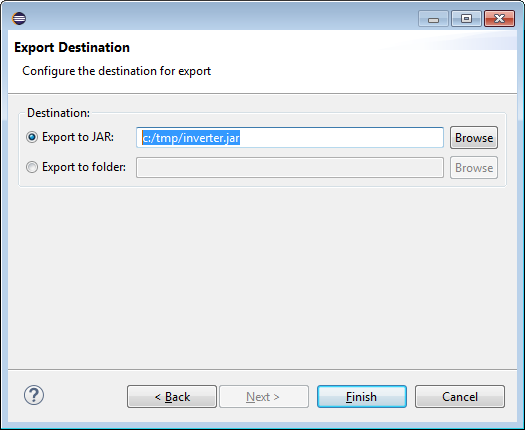
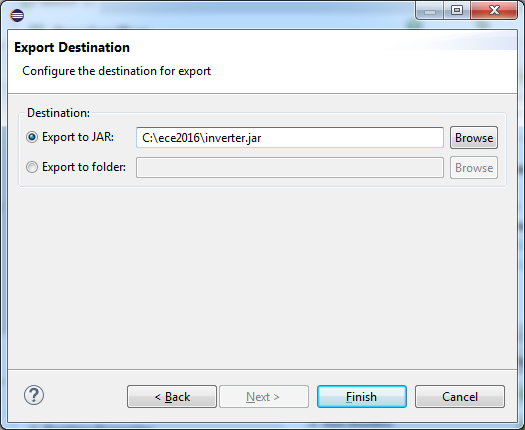
review Dirk and fixes bndtools

Changed region(s): [[0.0, 0.0, 1.0, 1.0], [0.2438, 0.3023, 0.5181, 0.3628]]

diff --git a/slides/index.html b/slides/index.html
@@ -87,6 +87,7 @@
         <p>copy the following snippet and paste it into src folder</p>
         <pre><code class="hljs" data-trim contenteditable>
 package examples.service.api;
+
 public interface StringModifier {
 	String modify(String input);
 }
@@ -110,9 +111,7 @@ public interface StringModifier {
         </p>
         <img src="images/pde/07_ServiceAPI-manifest.png" height="360px" />
     </section>
-</section>
-    
-<section id="exec1-pde-impl">
+
     <section data-markdown>
         #### Excercise 1 - PDE - Simple Service
         
@@ -156,8 +155,6 @@ public interface StringModifier {
         <h4>PDE - create implementation</h4>
         <ul>
             <li>copy the following snippet and paste it into src folder</li>
-            <li>after the paste organize the imports </br>
-            <code>Source -> Organize imports</code></li>
         </ul>
         <pre><code class="hljs" data-trim contenteditable>
 package examples.pde.impl.inverter;
@@ -184,9 +181,6 @@ public class StringInverterImpl implements StringModifier {
         <img src="images/pde/14_impl-bundle_2.png" height="320px" />
     </section>
 
-</section>
-
-<section id="exec1-pde-consumer">
     <section data-markdown>
         #### Excercise 1 - PDE - Simple Service
         
@@ -259,28 +253,25 @@ public class StringModifierCommand {
         <h4>PDE - @Reference - Event Strategy</h4>
         <p>update the StringModifierCommand</p>
         <pre><code class="hljs" data-trim contenteditable>
-            @Reference
-            void bindStringModifier(StringModifier modifier) {
-                this.modifier = modifier;
-            }
-            
-            void updatedStringModifier(StringModifier modifier, Map&lt;String, ?&gt; properties) {
-                properties.forEach((k,v) -> {System.out.println(k + " : " + v);} );
-            }
-            
-            void unbindStringModifier(StringModifier modifier) {
-                this.modifier = null;
-            }
-            
-            public void modify(String message) {
-                System.out.println(modifier.modify(message));
-            }        
+@Reference
+void bindStringModifier(StringModifier modifier) {
+    this.modifier = modifier;
+}
+
+void updatedStringModifier(StringModifier modifier, Map&lt;String, ?&gt; properties) {
+    properties.forEach((k,v) -> {System.out.println(k + " : " + v);} );
+}
+
+void unbindStringModifier(StringModifier modifier) {
+    this.modifier = null;
+}
+
+public void modify(String message) {
+    System.out.println(modifier.modify(message));
+}        
         </code></pre>
     </section>
     
-</section>
-
-<section id="exec1-pde-launch">
     <section data-markdown>
         #### Excercise 1 - PDE - Simple Service
         
@@ -388,9 +379,7 @@ public class StringModifierCommand {
             <img src="images/pde/31_simple-runtime-console.png" height="200px" />
         </ul>
     </section>
-</section>
 
-<section id="exec1-pde-export">
     <section data-markdown>
         #### Excercise 1 - PDE - Simple Service
         
@@ -405,7 +394,7 @@ public class StringModifierCommand {
         ####PDE - Prepare Equinox standalone runtime
 
         * extract the provided resources ```equinox_oxygen_runtime.zip``` into e.g. *C:\ece2016\equinox_oxygen_runtime*
-        * No platform specifix launcher!
+        * No platform specific launcher!
         * Customized configurator to support auto starting all installed bundles - [Source on GitHub](https://github.com/fipro78/equinox-autoconfigurator)
         * Adapted ```configuration/config.ini```
             * auto-start the auto configurator
@@ -416,7 +405,9 @@ public class StringModifierCommand {
     <section>
         <h4>PDE - Export application bundles</h4>
         <ul>
-            <li>export bundles via <code>File -> Export ... -> Plug-in Development -> Deployable plug-ins and fragments</code></li>
+            <li>export bundles via menu
+                <small><code>File -> Export ... -> Plug-in Development -> Deployable plug-ins and fragments</code></small></li>
+            <li>select all <code>examples.pde.*</code></li>
             <li>provide directory <code>C:\ece2016\equinox_oxygen_runtime</code></li>
         </ul>
         <img src="images/pde/40_export-plugins.png" height="320px" />
@@ -458,7 +449,7 @@ public class StringModifierCommand {
     <section>
         <h4>bndtools - create workspace</h4>
         <p>
-            select from menu:<br>
+            select from menu:</br>
             <code>File -> New -> Bnd OSGi Workspace</code><br>
             <code>GitHub -> bndtools/workspace</code>
         </p>
@@ -479,8 +470,9 @@ public class StringModifierCommand {
         <h4>bndtools - create API project and interface package</h4>
         <ul>
             <li><code>File -> New -> Bnd OSGi Project</code></li>
+            <li><code>Select API Project 3.3.0</code></li>
             <li>Project Name: <code>examples.bndtools.service.api</code></li>
-            <li>Java Package: <code>examples.bndtools.service.api</code></li>
+            <li>Java Package: <code>examples.service.api</code></li>
             <img src="images/bnd/06-create-api-project_1.png" height="280px" />
             <img src="images/bnd/07-create-api-project_2.png" height="280px" />
             <img src="images/bnd/08-create-api-project_3.png" height="280px" />
@@ -495,6 +487,7 @@ public class StringModifierCommand {
         </ul>
         <pre><code class="hljs" data-trim contenteditable>
 package examples.service.api;
+
 public interface StringModifier {
 	String modify(String input);
 }
@@ -520,9 +513,7 @@ public interface StringModifier {
         </ul>
         <img src="images/bnd/10_generated-bundle.png" height="420px" />
     </section>
-</section>
 
-<section id="exec1-bnd-impl">
     <section data-markdown>
         #### Excercise 1 - bndtools - Simple Service
         
@@ -537,20 +528,20 @@ public interface StringModifier {
         <h4>bndtools - create implementation project</h4>
         <ul>
             <li><code>File -> New -> Bnd OSGi Project</code></li>
+            <li><code>Select Component Development 3.3.0</code></li>
             <li>Project and Java Package Name: <br>
                 <code>examples.bndtools.impl.inverter</code></li>
-            <img src="images/bnd/20-create-impl-project_1.png" height="280px" />
-            <img src="images/bnd/21-create-impl-project_2.png" height="280px" />
-            <img src="images/bnd/22-create-impl-project_3.png" height="280px" />
+            <img src="images/bnd/20-create-impl-project_1.png" height="290px" />
+            <img src="images/bnd/21-create-impl-project_2.png" height="290px" />
+            <img src="images/bnd/22-create-impl-project_3.png" height="290px" />
         </ul>
     </section>
 
     <section>
         <h4>bndtools - define dependencies / build path</h4>
         <ul>
-            <li>Inside Bnd Editor on the Build Tab<br/> 
-            <code>examples.bndtools.service.api</code>
-            </li>
+            <li>Inside Bnd Editor on the Build Tab</li> 
+            <li>add to the Build Path <code>examples.bndtools.service.api</code></li>
         </ul>
         <img src="images/bnd/23-define-dependencies.png" height="360px" />
         <img src="images/bnd/24-define-dependencies_2.png" height="360px" />
@@ -574,14 +565,6 @@ public class StringInverterImpl implements StringModifier {
 	public String modify(String input) {
 		return new StringBuilder(input).reverse().toString();
 	}
-	@Activate
-	void activate() {
-		System.out.println(this.getClass() + " activated");
-	}
-	@Deactivate
-	void deactivate() {
-		System.out.println(this.getClass() + " deactivated");
-	}
 }
         </code></pre>
     </section>
@@ -594,9 +577,7 @@ public class StringInverterImpl implements StringModifier {
         <img src="images/bnd/25_impl-bundle-bnd.png" height="320px" />
         <img src="images/bnd/26_impl-bundle-generated.png" height="320px" />
     </section>
-</section>
 
-<section id="exec1-bnd-consumer">
     <section data-markdown>
         #### Excercise 1 - bndtools - Simple Service
         
@@ -611,7 +592,8 @@ public class StringInverterImpl implements StringModifier {
         <h4>bndtools - create consumer project</h4>
         <ul>
             <li><code>File -> New -> Bnd OSGi Project</code></li>
-            <li>Project and Java Package Name: <br>
+             <li><code>Select Component Development 3.3.0</code></li>
+           <li>Project and Java Package Name: <br>
                 <code>examples.bndtools.command</code></li>
             <img src="images/bnd/30-create-consumer-project_1.png" height="280px" />
             <img src="images/bnd/31-create-consumer-project_2.png" height="280px" />
@@ -622,9 +604,8 @@ public class StringInverterImpl implements StringModifier {
     <section>
         <h4>bndtools - define dependencies / build path</h4>
         <ul>
-            <li>Inside Bnd Editor on the Build Tab</br>
-            <code>examples.bndtools.service.api</code>
-            </li>
+            <li>Inside Bnd Editor on the Build Tab</li> 
+            <li>add to the Build Path <code>examples.bndtools.service.api</code></li>
         </ul>
         <img src="images/bnd/33-define-dependencies.png" height="360px" />
         <img src="images/bnd/34-define-dependencies_2.png" height="360px" />
@@ -666,9 +647,7 @@ public class StringModifierCommand {
         <img src="images/bnd/35_consumer-bundle-src.png" height="320px" />
         <img src="images/bnd/36_consumer-bundle-bnd.png" height="320px" />
     </section>
-</section>
 
-<section id="exec1-bnd-launch-ide">
     <section data-markdown>
         #### Excercise 1 - bndtools - Simple Service
         
@@ -682,7 +661,7 @@ public class StringModifierCommand {
     <section>
         <h4>bndtools - Launch from IDE - prepare</h4>
         <ul>
-            <li>Open the file <code>launch.bndrun</code> from project<code>examples.bndtools.impl.inverter</code></li>
+            <li>Open the file <code>launch.bndrun</code> from project <code>examples.bndtools.commands</code></li>
             <li>Select OSGi Framework <code>org.apache.felix.framework;version='[5.4.0,5.4.0]'</code></li>
             <li>Select Execution Environment: <code>JavaSE-1.8</code></li>
             <li>In the Run Requirements add the following bundles
@@ -738,9 +717,7 @@ public class StringModifierCommand {
             <img src="images/bnd/43_bnd-editor-launch.png" height="440px" />
         </ul>
     </section>
-</section>
 
-<section id="exec1-bnd-export">
     <section data-markdown>
         #### Excercise 1 - bndtools - Simple Service
         
@@ -756,7 +733,7 @@ public class StringModifierCommand {
         <ul>
             <li>start export via button <code>Export</code> on the top-right</li>
             <li>select executable jar</li>
-            <li>Export to JAR: <code>C:\tmp\inverter.jar</code></li>
+            <li>Export to JAR: <code>C:\ece2016\inverter.jar</code></li>
             <img src="images/bnd/50_export-wizard-executable-jar.png" height="300px" />
             <img src="images/bnd/51_export-wizard-executable-jar_2.png" height="300px" />
         </ul>
@@ -765,7 +742,7 @@ public class StringModifierCommand {
     <section>
         <h4>bndtools - run stand-alone "MegaJar"</h4>
         <ul>
-            <li>open a cmd/shell window inside <code>C:\tmp</code></li>
+            <li>open a cmd/shell window inside <code>C:\ece2016</code></li>
             <li>launch <code>java -jar inverter.jar</code></li>
             <li>type in the console <code>modify example</code></li>
         </ul>
@@ -828,7 +805,7 @@ void deactivate() {
                     </tr>
                     <tr>
                         <td>Disable StringInverterImpl and check the console output</td>
-                        <td><code>dis</code></td>
+                        <td><code>dis &lt;compID&gt;</code></td>
                         <td><code>scr:disable examples.bndtools.<br>
                         impl.inverter.StringInverterImpl</code></td>
                     </tr>
@@ -839,7 +816,7 @@ void deactivate() {
                     </tr>
                     <tr>
                         <td>Enable StringInverterImpl and check the console output</td>
-                        <td><code>en &lt;component id&gt;</code></td>
+                        <td><code>en &lt;compID&gt;</code></td>
                         <td><code>scr:enable examples.bndtools.<br>
                         impl.inverter.StringInverterImpl</code></td>
                     </tr>
@@ -1192,7 +1169,7 @@ public class StringManipulatorCommand {
             <li>run</li>
             <li>execute in console: <code>config uppercase true</code></li>
             <li>execute in console: <code>modify test</code></li>
-            <li>verify the result: <code>modify test</code></li>
+            <li>verify the result</li>
         </ul>
     </section>
 
